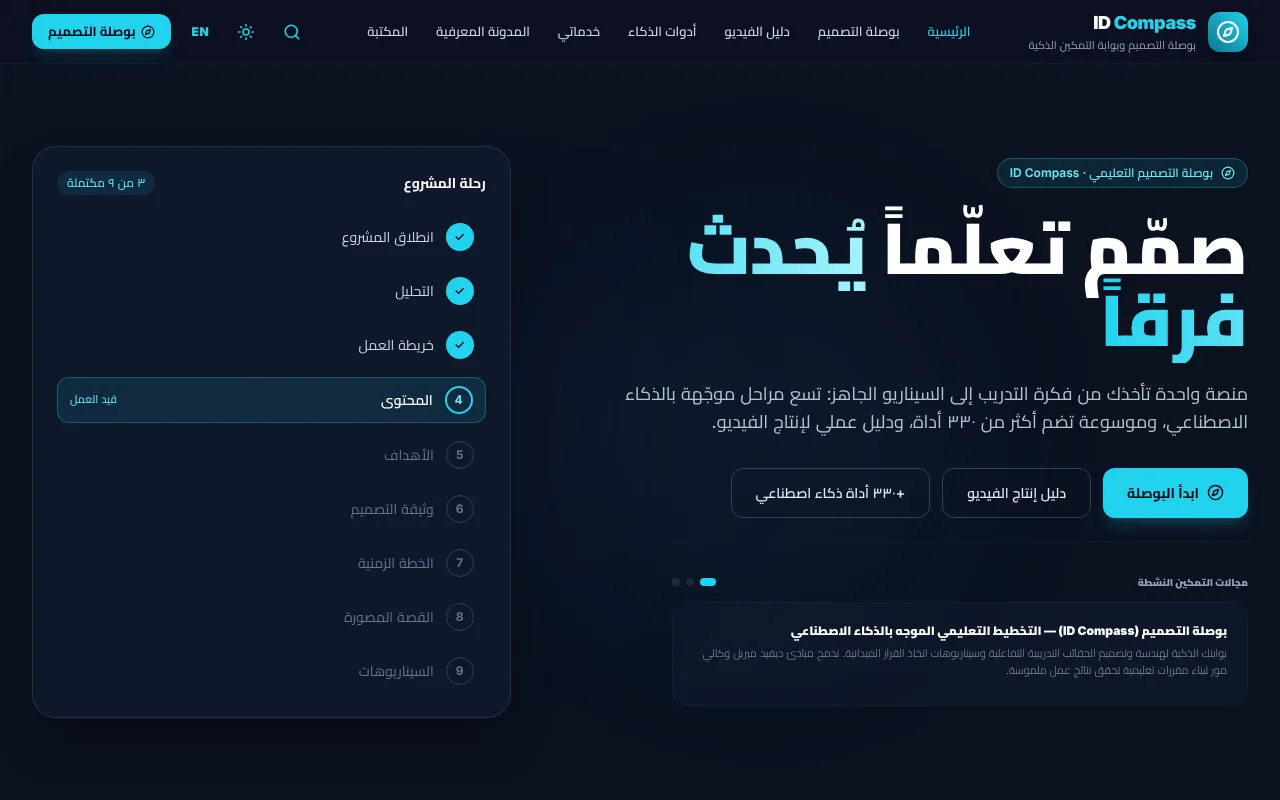
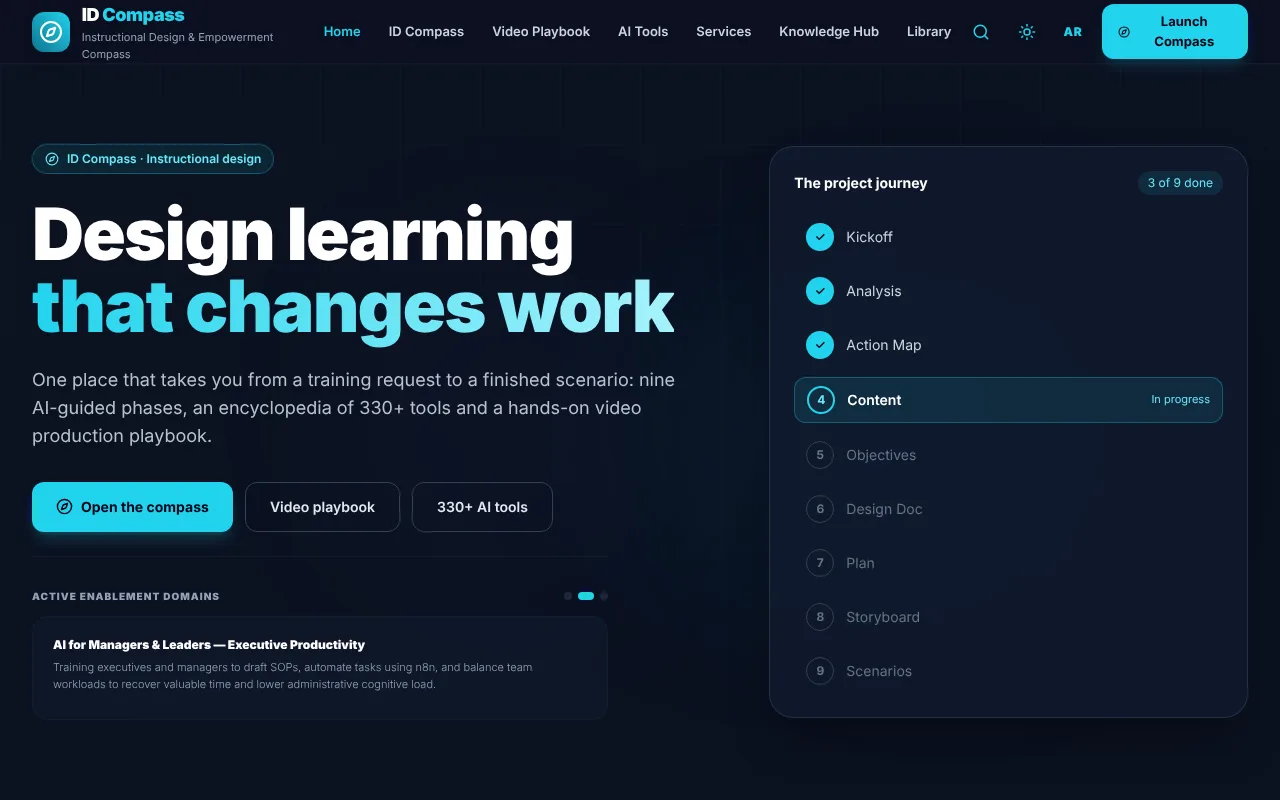
Play games button; ID Compass screenshots in English with a sample project
Claude-Session: https://claude.ai/code/session_01LTHne89iUaGJZLjip7H4iW

diff --git a/src/TeachingApp.tsx b/src/TeachingApp.tsx
@@ -1,7 +1,7 @@
 import { useEffect, useState } from 'react';
 import { AnimatePresence, motion } from 'motion/react';
 import Lenis from 'lenis';
-import { ArrowUp } from 'lucide-react';
+import { ArrowUp, Gamepad2 } from 'lucide-react';
 import { useLocale } from './LocaleContext';
 import useActiveSection from './useActiveSection';
 import { NAV_ITEMS, BRAND } from './teachingData';
@@ -97,6 +97,21 @@ export default function TeachingApp() {
       </main>
 
       <TeachFooter />
+
+      {/* Games: a shortcut to the Math Arcade from anywhere on the page */}
+      <a
+        href="#lab"
+        onClick={(e) => {
+          const lenis = (window as any).__lenis;
+          const el = document.getElementById('lab');
+          if (lenis && el) { e.preventDefault(); lenis.scrollTo(el, { offset: -80 }); }
+        }}
+        className="fixed bottom-6 start-6 z-[900] h-11 ps-3.5 pe-4 rounded-full bg-[var(--t-accent)] text-[#fff] shadow-xl shadow-[color-mix(in_srgb,var(--t-accent)_35%,transparent)] hover:scale-105 transition-transform flex items-center gap-2 text-sm font-bold"
+        aria-label={isRtl ? 'العب ألعاب الرياضيات' : 'Play the math games'}
+      >
+        <Gamepad2 className="w-5 h-5" />
+        <span className="hidden sm:inline">{isRtl ? 'العب الآن' : 'Play games'}</span>
+      </a>
 
       <AnimatePresence>
         {showTop && (

diff --git a/src/teachingData.ts b/src/teachingData.ts
@@ -449,8 +449,10 @@ export const DESIGNS: Design[] = [
     device: 'desktop',
     steps: [
       { image: '/designs/compass-1.webp', label: { en: 'Home', ar: 'الرئيسية' } },
-      { image: '/designs/compass-2.webp', label: { en: '330+ AI tools', ar: '+٣٣٠ أداة' } },
-      { image: '/designs/compass-3.webp', label: { en: 'Video playbook', ar: 'دليل الفيديو' } },
+      { image: '/designs/compass-2.webp', label: { en: 'A sample project', ar: 'مشروع نموذجي' } },
+      { image: '/designs/compass-3.webp', label: { en: 'Action map', ar: 'خريطة العمل' } },
+      { image: '/designs/compass-4.webp', label: { en: 'Key content', ar: 'المحتوى الأساسي' } },
+      { image: '/designs/compass-5.webp', label: { en: '330+ AI tools', ar: '+٣٣٠ أداة' } },
     ],
     link: 'https://id-compass-1.vercel.app/',
   },
